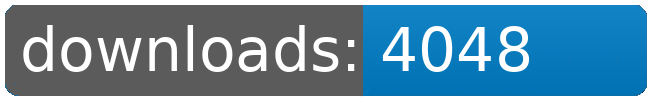
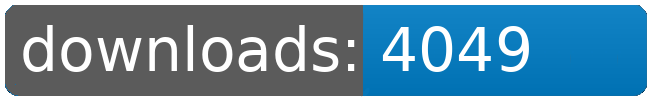
dl log written

Changed region(s): [[0.7692, 0.27, 0.8308, 0.72]]

diff --git a/README.md b/README.md
@@ -21,8 +21,8 @@
 		<td>4000</td>
 		<td>4018</td>
 		<td>4039</td>
-		<td>4048</td>
-		<td>+ 9</td>
+		<td>4049</td>
+		<td>+ 10</td>
 	</tr>
 	<tr>
 		<td>Factory.Outlets</td>
@@ -109,8 +109,8 @@
 		<td></td>
 		<td></td>
 		<td></td>
-		<td>33574</td>
-		<td>66</td>
+		<td>33575</td>
+		<td>67</td>
 	</tr>
 </table>
 </sub></sup>
@@ -168,8 +168,8 @@
 		<td>4000</td>
 		<td>4018</td>
 		<td>4039</td>
-		<td>4048</td>
-		<td>+ 9</td>
+		<td>4049</td>
+		<td>+ 10</td>
 	</tr>
 	<tr>
 		<td>Solar.Sails</td>
@@ -223,8 +223,8 @@
 		<td></td>
 		<td></td>
 		<td></td>
-		<td>33574</td>
-		<td>66</td>
+		<td>33575</td>
+		<td>67</td>
 	</tr>
 </table>
 </sub></sup>
